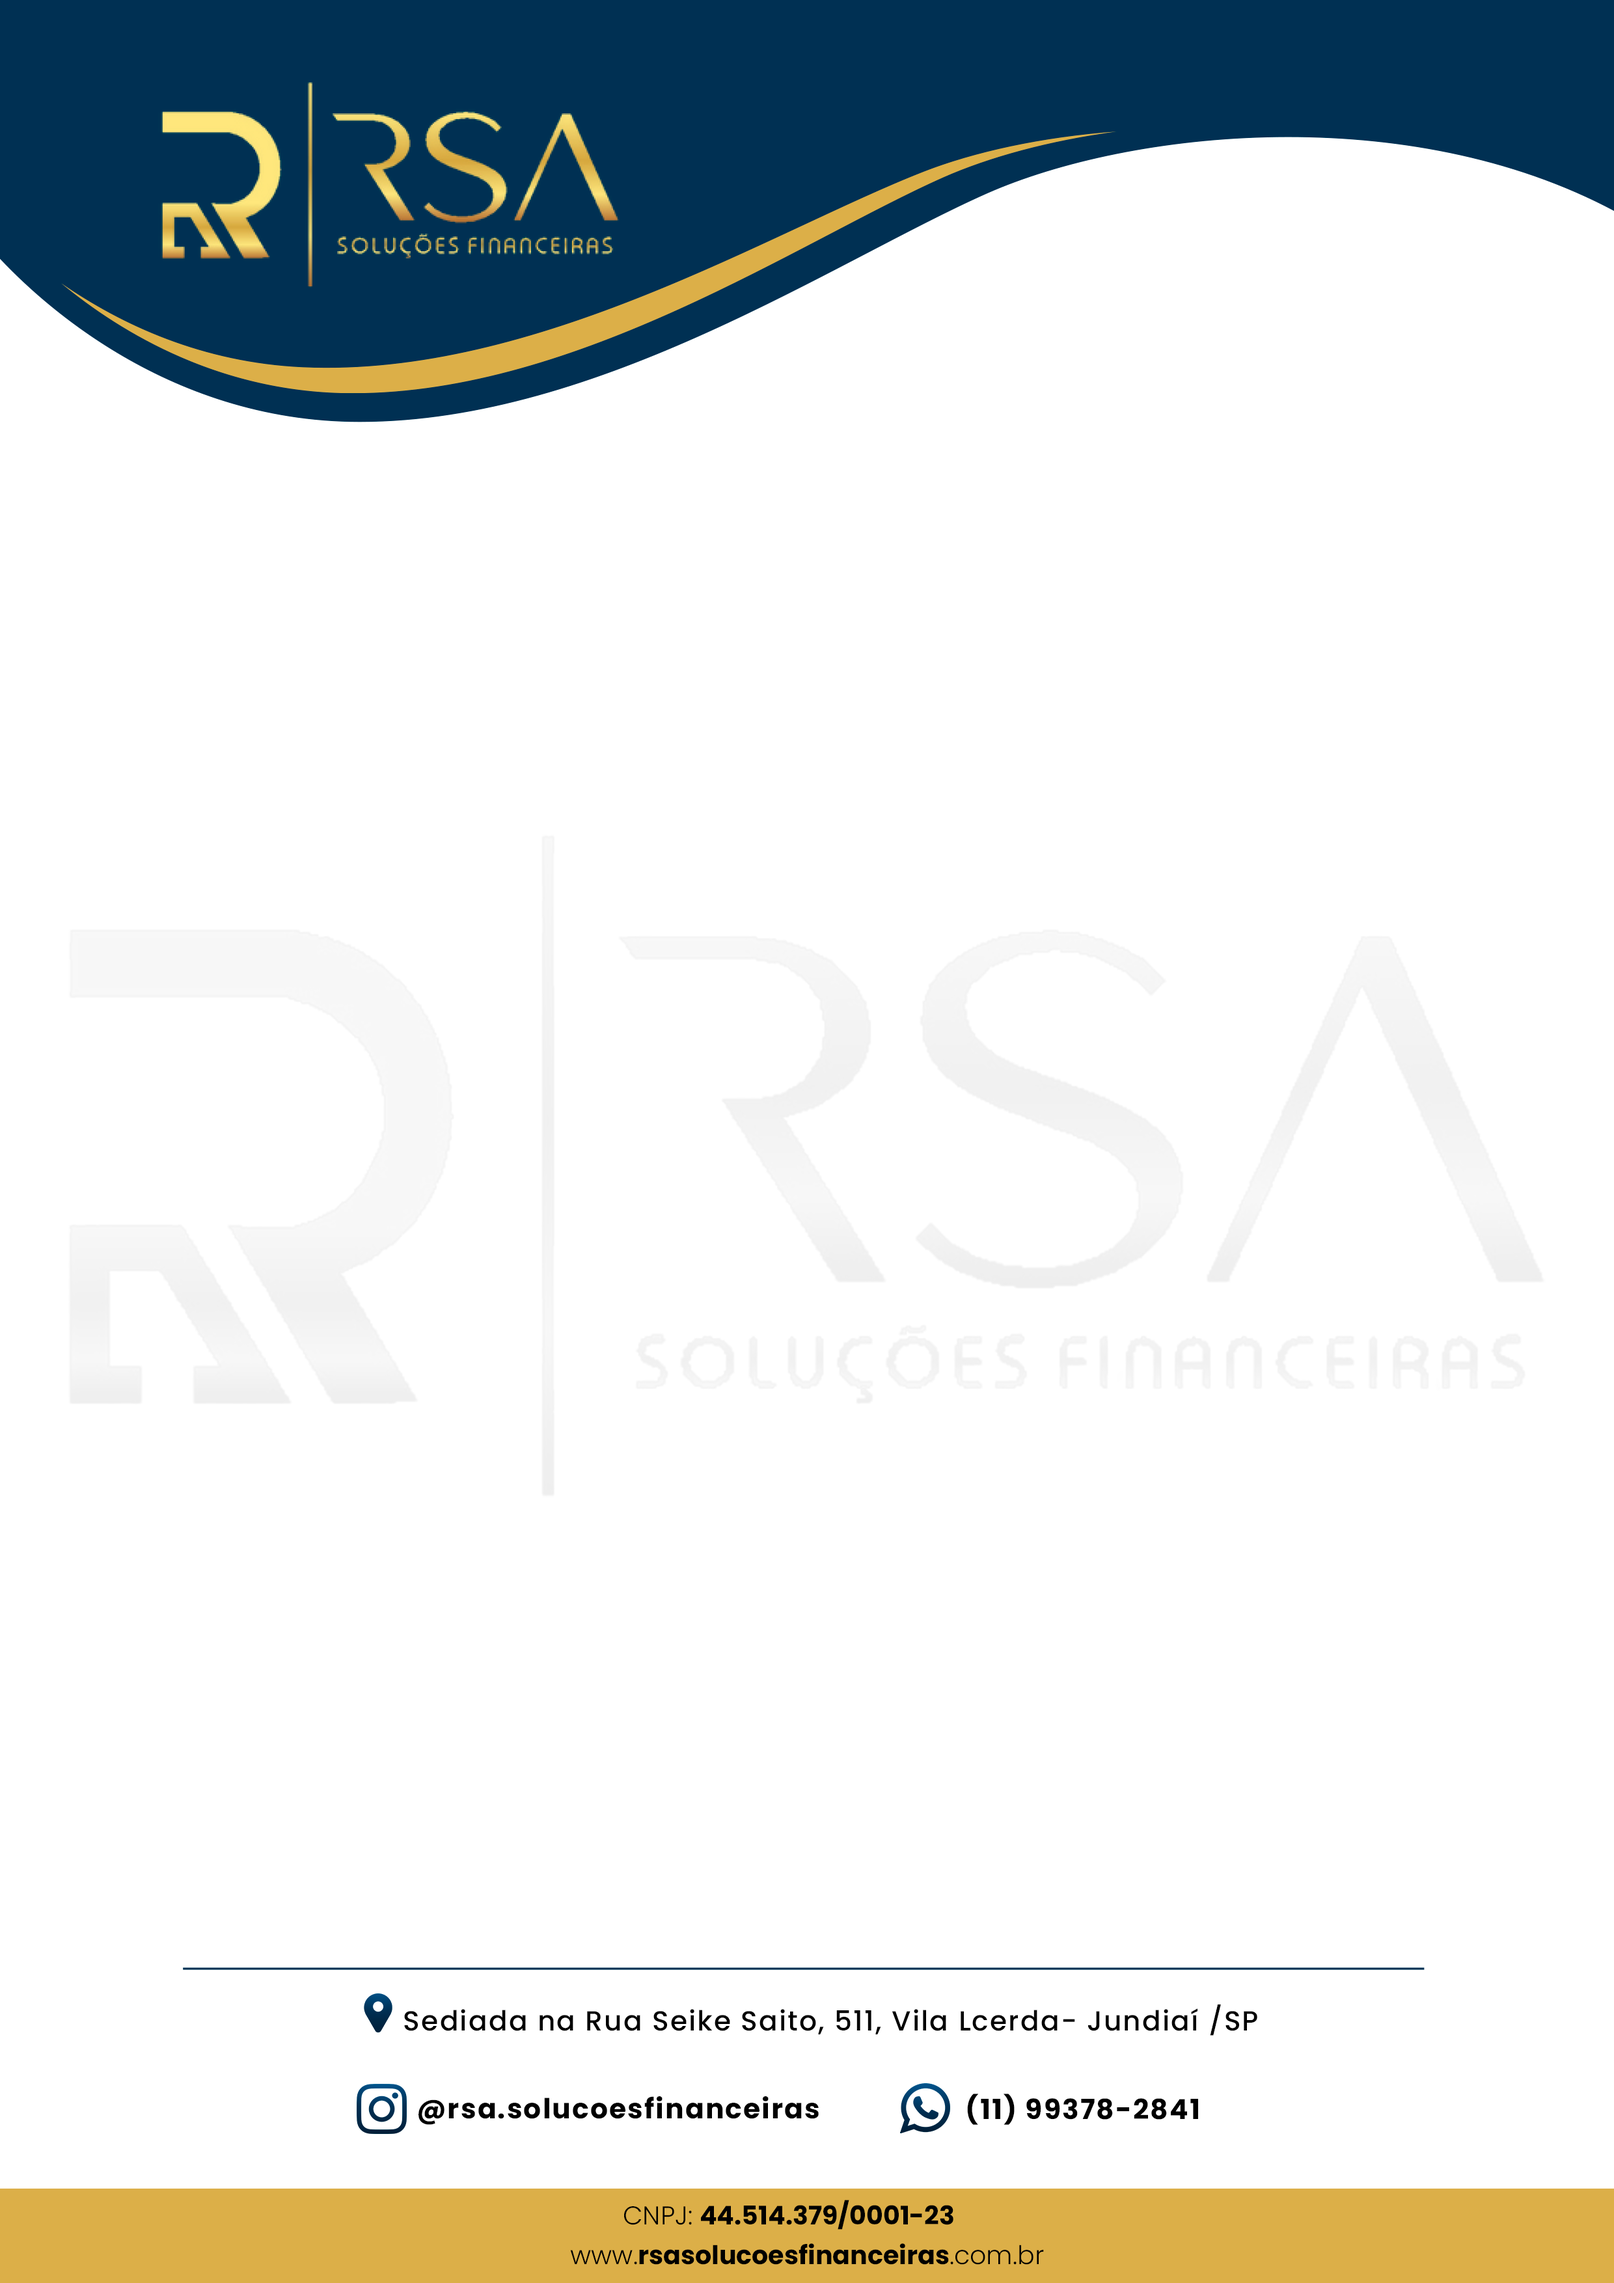
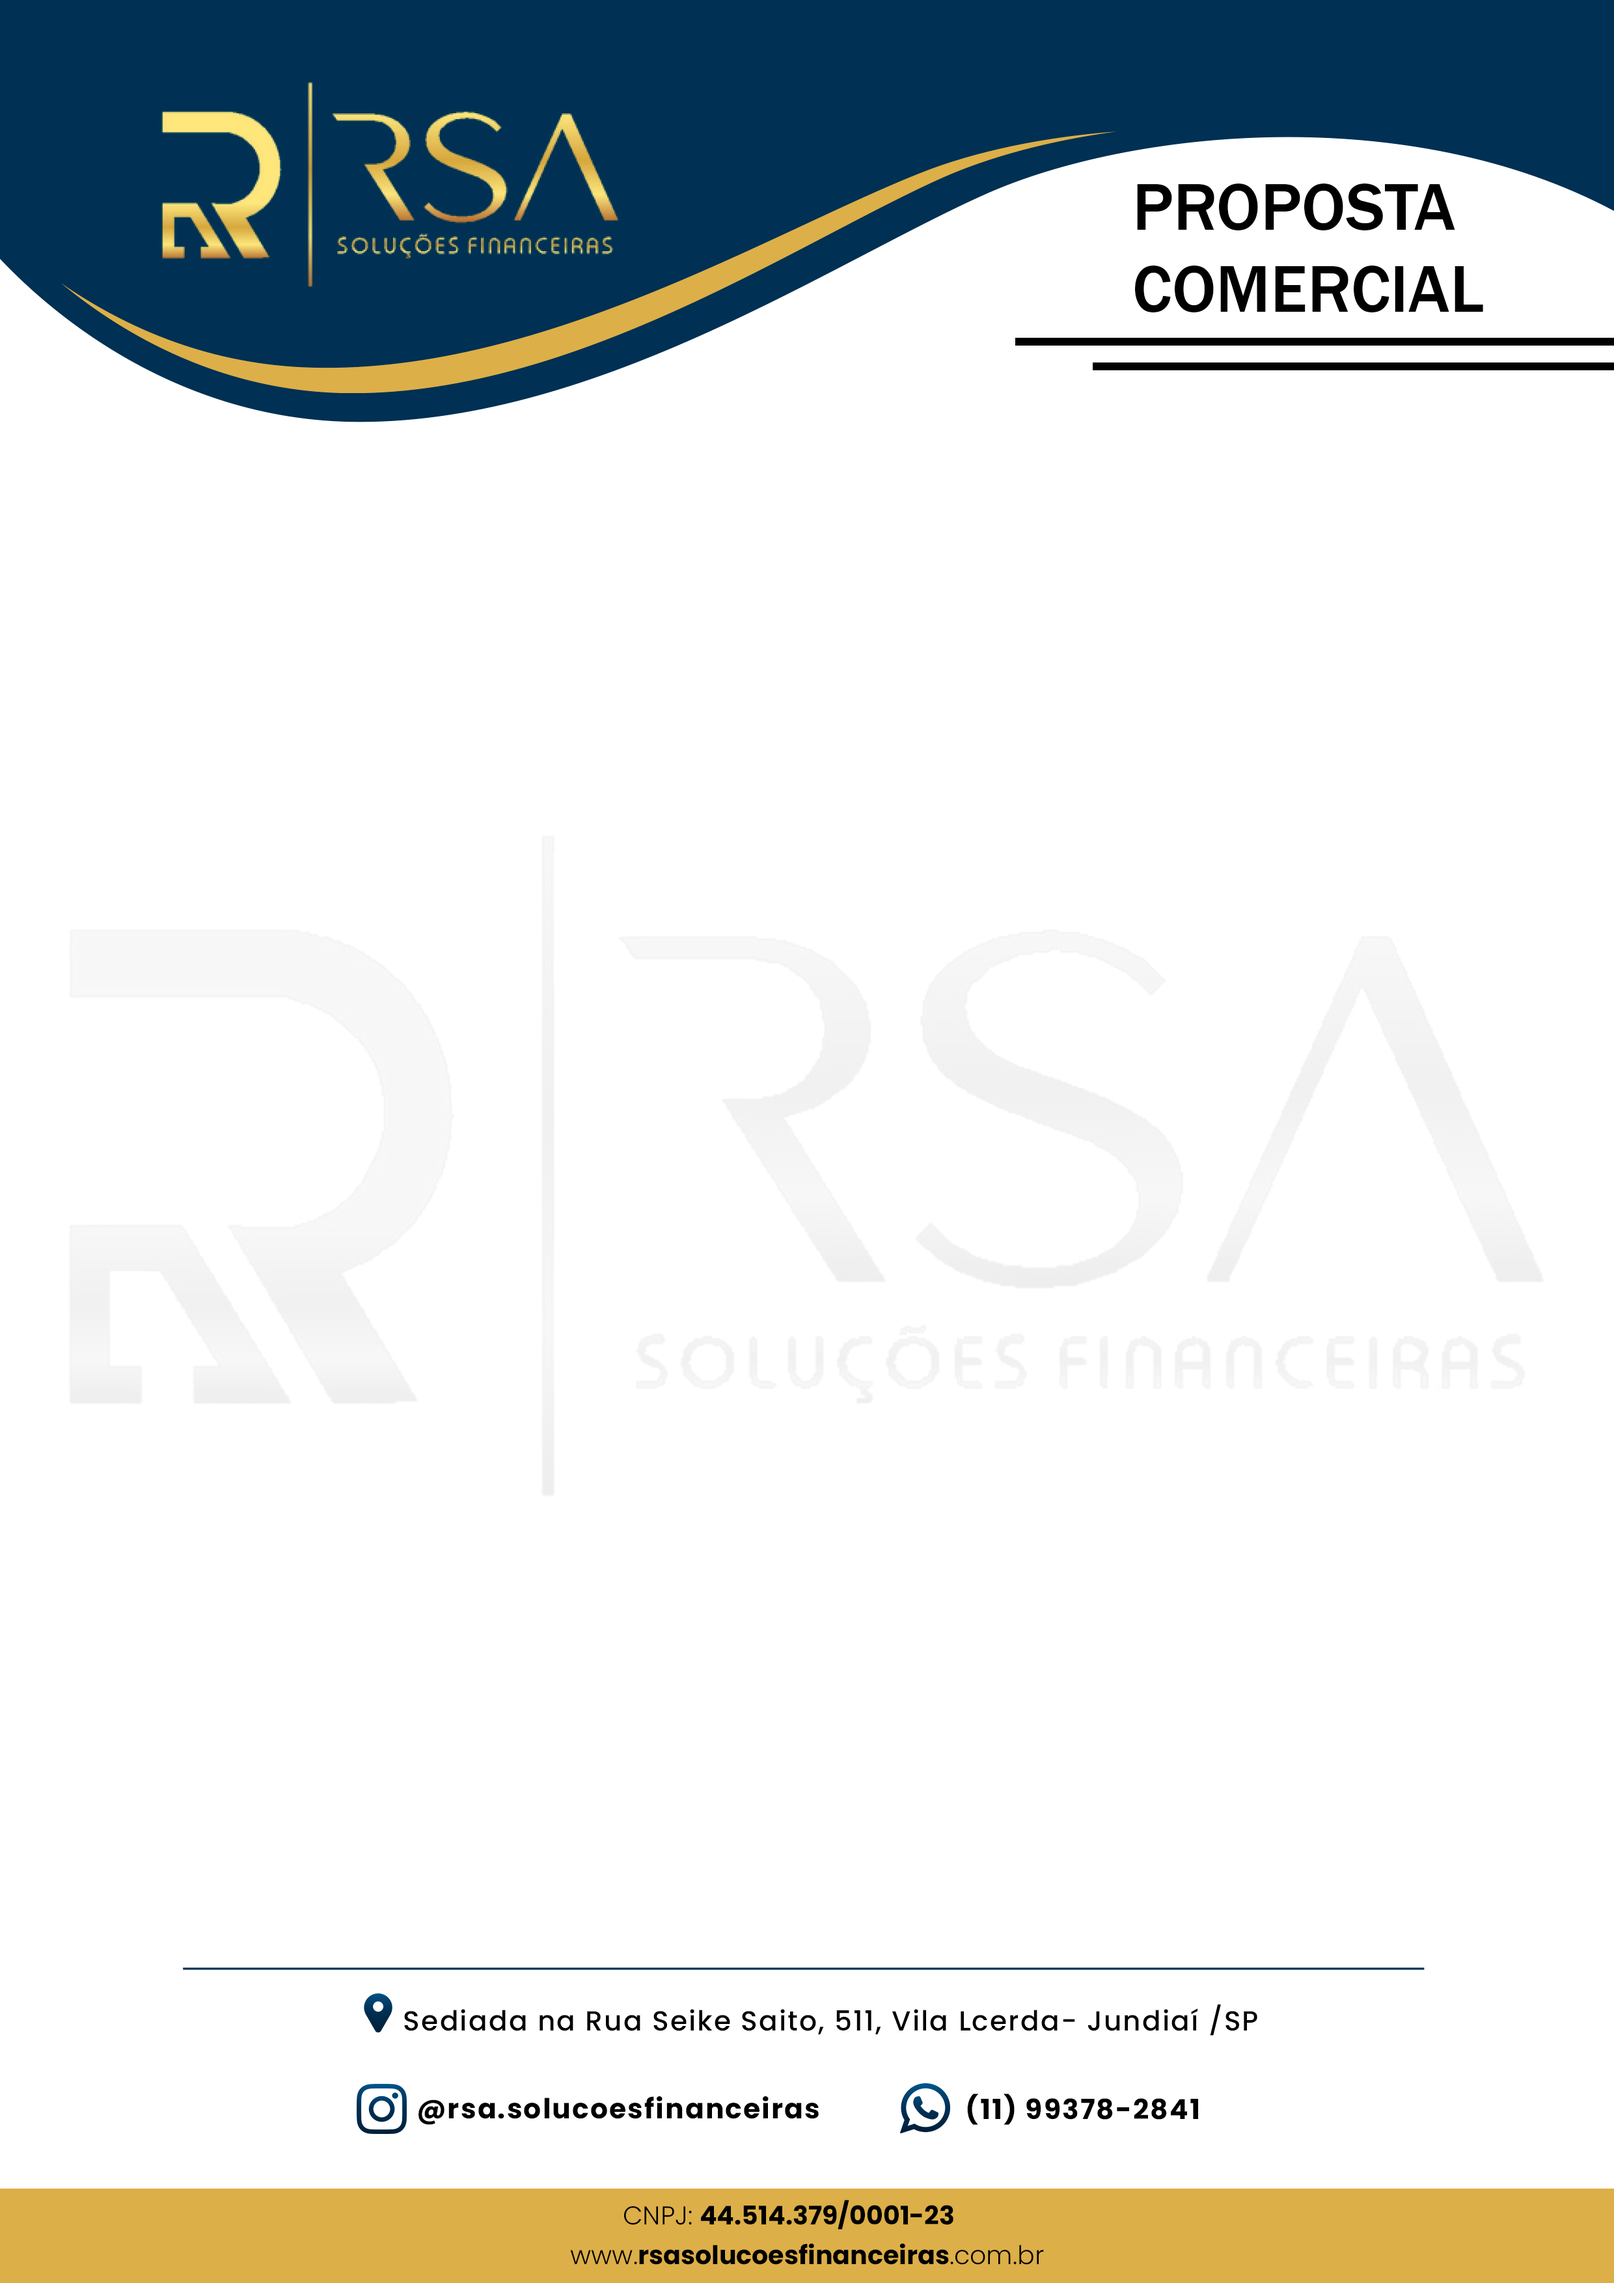
proposta

Changed region(s): [[0.652, 0.0621, 1.0, 0.1864]]

diff --git a/resources/views/negocios/proposta_id.blade.php b/resources/views/negocios/proposta_id.blade.php
@@ -5,7 +5,7 @@
   
 	
     .pad {
-        margin-top: 8%;
+        margin-top: 25%;
     }
   	.mascote-img{
   		padding-right: 50px;
@@ -58,7 +58,7 @@
 
 
 	hr.proposta {
-		margin-top: 50px;
+		/*margin-top: 50px;*/
 		size: 10px;
 		border-color: #C69316;
 		border-width: 5px 0;
@@ -102,7 +102,7 @@ function convert($frase){
 <img align="center" class="back-img" src="{{url('')}}/images/empresa/{{env('APP_SHORT_NAME')}}/proposta/fundo_folha.png"></img>
 	
 <div class="container">
-	<h2 align="center" style="padding-top: 8%"><b>PROPOSTA COMERCIAL</b></h2>
+
 		<div class="row pad" >
 	
 	    
@@ -111,7 +111,7 @@ function convert($frase){
 
 			
 				@if ($proposta->tipo == "imóvel")
-					<img align="right" class="mascote-img" src="{{url('')}}/images/empresa/{{env('APP_SHORT_NAME')}}/proposta/imovel.jpg"></img>
+					<img align="right" class="mascote-img" src="{{url('')}}/images/empresa/{{env('APP_SHORT_NAME')}}/proposta/imovel.png"></img>
 				@elseif ($proposta->tipo == "veículo")
 					<img align="right" class="mascote-img" src="{{url('')}}/images/empresa/{{env('APP_SHORT_NAME')}}/proposta/veiculo-2.png"></img>
 				@elseif ($proposta->tipo == "maquinário")
@@ -166,7 +166,7 @@ function convert($frase){
 				use Carbon\Carbon;
 				?>
 				<h4>Data da Criação: <span style="font-weight: bold;">
-					{{ $proposta->created_at->format('d/m/Y H:m')}}</span>
+					{{ $proposta->created_at->format('d/m/Y - H:m')}}</span>
 				</h4>
 				<h4>Validade da Proposta: <span style="font-weight: bold;">
 					<?php echo date('d/m/Y', strtotime('+3 days')); ?></span>

diff --git a/resources/views/negocios/proposta.blade.php b/resources/views/negocios/proposta.blade.php
@@ -5,7 +5,7 @@
   
 	
     .pad {
-        margin-top: 8%;
+        margin-top: 25%;
     }
   	.mascote-img{
   		padding-right: 50px;
@@ -58,7 +58,7 @@
 
 
 	hr.proposta {
-		margin-top: 50px;
+		/*margin-top: 50px;*/
 		size: 10px;
 		border-color: #C69316;
 		border-width: 5px 0;
@@ -103,7 +103,7 @@ function convert($frase){
 	
 <div class="container">
 	
-	<h2 align="center" style="padding-top: 8%"><b>PROPOSTA COMERCIAL</b></h2>
+	
 		<div class="row pad" >
 	
 	        
@@ -112,7 +112,7 @@ function convert($frase){
 
 			
 				@if ($tipo == "imóvel")
-					<img align="right" class="mascote-img" src="{{url('')}}/images/empresa/{{env('APP_SHORT_NAME')}}/proposta/imovel.jpg"></img>
+					<img align="right" class="mascote-img" src="{{url('')}}/images/empresa/{{env('APP_SHORT_NAME')}}/proposta/imovel.png"></img>
 				@elseif ($tipo == "veículo")
 					<img align="right" class="mascote-img" src="{{url('')}}/images/empresa/{{env('APP_SHORT_NAME')}}/proposta/veiculo-2.png"></img>
 				@elseif ($tipo == "maquinário")

diff --git a/public/propostas/criar_proposta.php b/public/propostas/criar_proposta.php
@@ -109,7 +109,7 @@ function convert($frase){
 				
 				<?php 				
 					if ($_POST['tipo'] == "imóvel") {
-						echo "<img  align=\"right\" class=\"mascote-img\" src=\"/wp-content/uploads/2021/11/imovel.jpg\"></img>";
+						echo "<img  align=\"right\" class=\"mascote-img\" src=\"/wp-content/uploads/2021/11/imovel.png\"></img>";
 					} elseif ($_POST['tipo'] == "veículo"){
 						echo "<img  align=\"right\" class=\"mascote-img\" src=\"/wp-content/uploads/2021/11/veiculo-2.png\"></img>";
 					}elseif ($_POST['tipo'] == "maquinário"){
